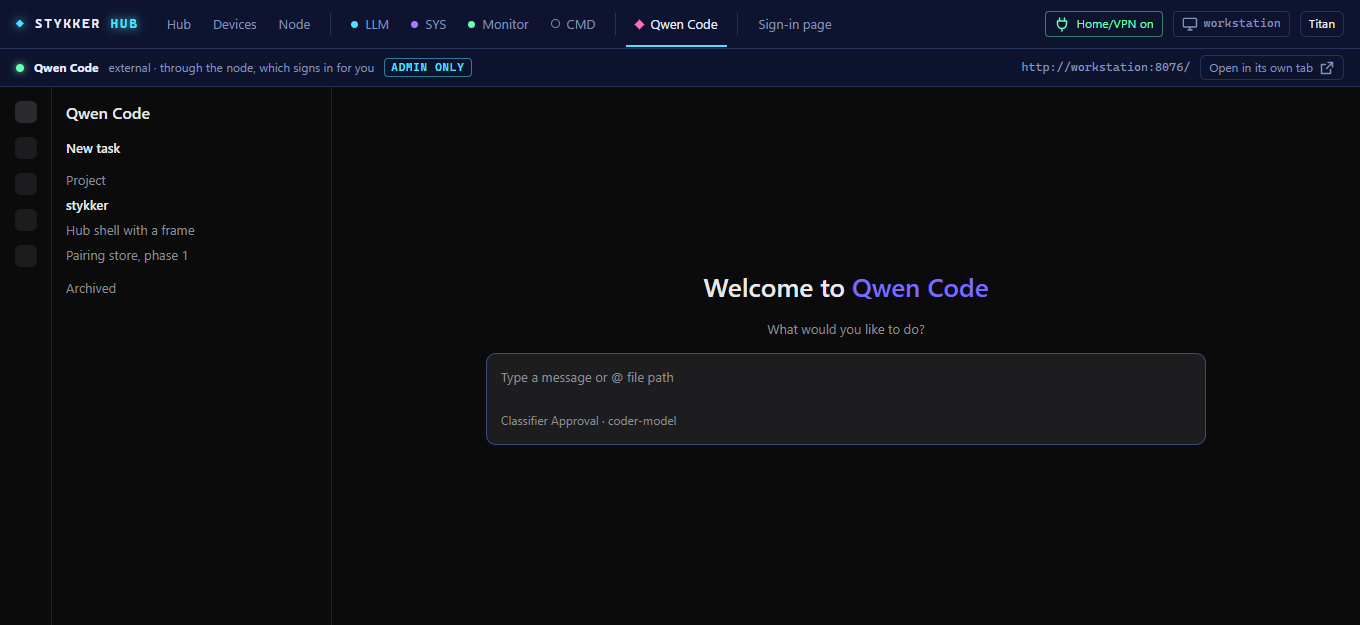
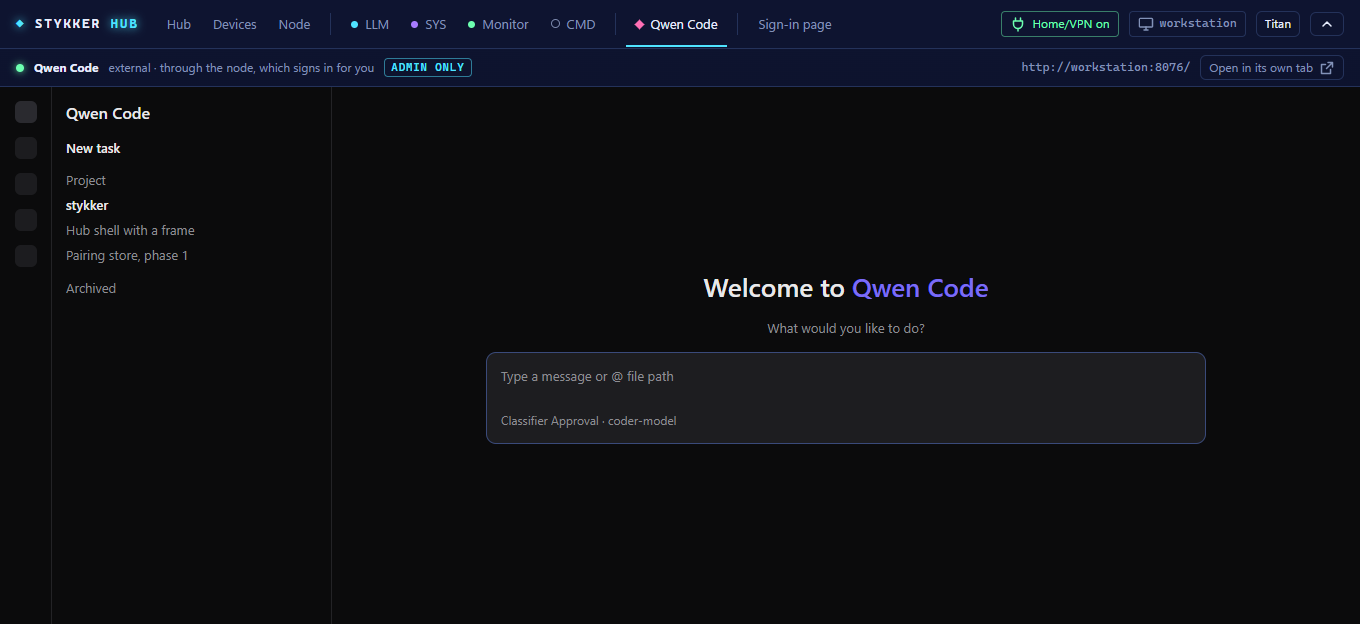
docs: the hub bar folds away; on a phone it opens from one symbol
On a PC the bar is open and can be folded. On a phone and as an
installed app it starts folded, the module gets the whole screen and
the symbol opens the bar as a menu over the page.

diff --git a/docs/design/mockup-zentrale.html b/docs/design/mockup-zentrale.html
@@ -2,7 +2,8 @@
 <html lang="en" data-theme="dark">
 <head>
 <meta charset="utf-8">
-<meta name="viewport" content="width=device-width, initial-scale=1">
+<meta name="viewport" content="width=device-width, initial-scale=1, viewport-fit=cover">
+<meta name="theme-color" content="#0e1430">
 <title>Stykker Hub – mockup</title>
 <!--
   Mockup der Zentrale (docs/plan-stykkernode.md, Phase 5). Statische Seite, keine Daten vom Server:
@@ -157,14 +158,14 @@ nav .mod.ext::before{border-radius:1px;transform:rotate(45deg)}
 main.shell{max-width:none;padding:0}
 .framebar{display:flex;align-items:center;gap:10px;padding:6px 16px;border-bottom:1px solid var(--line);color:var(--muted);font-size:12px;flex-wrap:wrap}
 .framebar .grow{margin-left:auto;display:flex;align-items:center;gap:10px}
-.frame{min-height:calc(100vh - 82px);background:var(--bg)}
+.frame{min-height:calc(100vh - var(--bar-h) - 34px);background:var(--bg)}
 .frame .inner{max-width:1360px;margin:0 auto;padding:14px 16px}
 .modnav{display:flex;align-items:center;gap:4px;margin-bottom:14px;flex-wrap:wrap}
 .modnav span{padding:5px 10px;border:1px solid transparent;border-radius:var(--radius-sm);color:var(--muted)}
 .modnav span.on{color:var(--ink);background:var(--card-2);border-color:var(--line)}
 .modnav .right{margin-left:auto;display:flex;gap:8px}
 /* Qwen bringt seine eigene Gestaltung mit: neutral dunkel, in beiden Themen gleich */
-.foreign{background:#0b0b0c;color:#e9e9ea;display:grid;grid-template-columns:52px 280px 1fr;min-height:calc(100vh - 82px);font-family:"Segoe UI",system-ui,sans-serif}
+.foreign{background:#0b0b0c;color:#e9e9ea;display:grid;grid-template-columns:52px 280px 1fr;min-height:calc(100vh - var(--bar-h) - 34px);font-family:"Segoe UI",system-ui,sans-serif}
 .foreign .rail{border-right:1px solid #232326;display:grid;align-content:start;gap:14px;padding:14px 0;justify-items:center}
 .foreign .rail i{width:22px;height:22px;border-radius:6px;background:#1c1c1f}
 .foreign .rail i.on{background:#2a2a2f}
@@ -178,6 +179,38 @@ main.shell{max-width:none;padding:0}
 .foreign .composer{width:min(720px,70vw);text-align:left;background:#1d1d20;border:1px solid #3a4a7a;border-radius:10px;padding:14px;color:#8d8d93}
 .foreign .composer div{margin-top:26px;font-size:12px}
 @media (max-width:900px){.foreign{grid-template-columns:1fr}.foreign .rail,.foreign .side{display:none}}
+
+/* ── Leiste ein- und ausklappen ──
+   Am PC ist sie offen und lässt sich wegklappen. Am Handy (und als installierte App) ist sie zu: das Modul bekommt
+   den ganzen Bildschirm, und das Symbol öffnet die Leiste als Menü über der Seite. */
+:root{--bar-h:49px}
+html.folded{--bar-h:0px}
+html.folded header{display:none}
+#unfold{display:none;position:fixed;z-index:6;top:8px;right:12px;width:32px;height:32px;padding:0;border-radius:var(--radius-sm);background:var(--bg-top);border:1px solid var(--border);cursor:pointer;font:700 14px var(--font-mono)}
+#unfold b{color:var(--acc);text-shadow:0 0 calc(10px*var(--glow)) var(--acc)}
+html.folded #unfold{display:grid;place-items:center}
+/* Das Symbol sitzt in der Ecke: die Zeile des Moduls rückt dafür ein */
+html.folded .framebar{padding-right:56px}
+@media (max-width:640px),(display-mode:standalone){
+  #unfold{z-index:30;top:auto;bottom:max(16px,env(safe-area-inset-bottom));right:16px;width:48px;height:48px;border-radius:50%;font-size:20px;box-shadow:var(--shadow-menu)}
+  /* Eingeklappt gehört der ganze Bildschirm dem Modul: auch die Zeile mit Name und Adresse weicht */
+  html.folded .framebar{display:none}
+  html.folded{--bar-h:-34px}
+  html:not(.folded) header{position:fixed;inset:0;z-index:20;overflow:auto;border-bottom:0}
+  html:not(.folded) .bar{flex-direction:column;align-items:stretch;gap:0;padding:14px 16px calc(84px + env(safe-area-inset-bottom))}
+  html:not(.folded) .brand{padding:6px 0 14px}
+  html:not(.folded) nav{flex-direction:column;overflow:visible;flex:none}
+  html:not(.folded) nav button{padding:14px 4px;border-bottom:1px solid var(--line);text-align:left;font-size:15px}
+  html:not(.folded) nav button[aria-current="page"]{border-bottom-color:var(--line);color:var(--acc-t)}
+  html:not(.folded) nav .sep{width:auto;height:0;margin:8px 0;background:none}
+  html:not(.folded) .tools{flex-wrap:wrap;padding-top:16px}
+  html:not(.folded) .tools .chip{display:inline-flex}
+  html:not(.folded) #fold{display:none}
+  html:not(.folded) #unfold{display:grid;place-items:center}
+  html:not(.folded) #unfold b{display:none}
+  html:not(.folded) #unfold::after{content:"✕";color:var(--ink);font:400 18px var(--font-sans)}
+  html:not(.folded) body{overflow:hidden}
+}
 
 @media (max-width:1020px){.cols{grid-template-columns:1fr}}
 @media (max-width:640px){
@@ -211,6 +244,7 @@ main.shell{max-width:none;padding:0}
   <symbol id="i-file" viewBox="0 0 16 16"><path d="M4 1.75h5.5L12.5 5v9.25h-8.5z"/><path d="M9.5 1.75V5h3"/><path d="M6.5 8.5h4M6.5 11h3"/></symbol>
   <symbol id="i-layers" viewBox="0 0 16 16"><path d="M8 2 14 5 8 8 2 5z"/><path d="M2 8l6 3 6-3M2 11l6 3 6-3"/></symbol>
   <symbol id="i-timer" viewBox="0 0 16 16"><circle cx="8" cy="9" r="5.25"/><path d="M8 6.5V9l1.75 1.25M6.5 1.75h3"/></symbol>
+  <symbol id="i-up" viewBox="0 0 16 16"><path d="M4 10l4-4 4 4"/></symbol>
   <symbol id="i-x" viewBox="0 0 16 16"><path d="M4 4l8 8M12 4l-8 8"/></symbol>
   <symbol id="r-ok" viewBox="0 0 16 16"><circle cx="8" cy="8" r="6.25"/><path d="M5 8.25 7 10.25 11 6"/></symbol>
   <symbol id="b-llama" viewBox="0 0 16 16"><path d="M8 1.5 13.6 4.75v6.5L8 14.5 2.4 11.25v-6.5z"/><path d="M5.5 6.5h5M5.5 9.5h3"/></symbol>
@@ -238,9 +272,12 @@ main.shell{max-width:none;padding:0}
       <span class="chip on"><svg class="ic"><use href="#i-port"/></svg>Home/VPN on</span>
       <span class="chip"><svg class="ic"><use href="#i-host"/></svg><span class="mono">workstation</span></span>
       <button class="btn sm quiet" id="theme">Titan</button>
+      <button class="btn sm quiet" id="fold" title="Hide the bar" aria-label="Hide the bar"><svg class="ic"><use href="#i-up"/></svg></button>
     </div>
   </div>
 </header>
+<!-- Eingeklappt bleibt nur dieses Symbol: am PC oben rechts, am Handy unten rechts in Daumennähe. -->
+<button id="unfold" title="Show the bar" aria-label="Show the bar" aria-expanded="false"><b>◆</b></button>
 
 <main>
 
@@ -594,6 +631,7 @@ main.shell{max-width:none;padding:0}
   var views = ['hub', 'devices', 'node', 'pair', 'llm', 'qwen'];
   function show() {
     var parts = location.hash.replace('#', '').split(';');
+    if (parts[2]) setFolded(parts[2] !== 'open', false);
     var view = views.indexOf(parts[0]) >= 0 ? parts[0] : 'hub';
     if (parts[1]) document.documentElement.dataset.theme = parts[1] === 'titan' ? 'titan' : 'dark';
     views.forEach(function (id) { document.getElementById(id).classList.toggle('show', id === view); });
@@ -603,9 +641,29 @@ main.shell{max-width:none;padding:0}
     });
     document.getElementById('theme').textContent = document.documentElement.dataset.theme === 'titan' ? 'Dark' : 'Titan';
   }
+  // Handy und installierte App: Leiste zu, bis das Symbol sie öffnet. Am PC offen. Die Wahl bleibt je Gerät gemerkt.
+  var small = window.matchMedia('(max-width:640px),(display-mode:standalone)');
+  function key() { return 'stykker-hub-bar-' + (small.matches ? 'phone' : 'desktop'); }
+  function setFolded(folded, remember) {
+    document.documentElement.classList.toggle('folded', folded);
+    document.getElementById('unfold').setAttribute('aria-expanded', String(!folded));
+    if (remember && !small.matches) { try { localStorage.setItem(key(), folded ? 'folded' : 'open'); } catch (e) { /* ohne Speicher: gilt bis zum Neuladen */ } }
+  }
+  function initialFolded() {
+    if (small.matches) return true;             // am Handy immer zu: das Menü ist eine Aktion, kein Zustand
+    try { return localStorage.getItem(key()) === 'folded'; } catch (e) { return false; }
+  }
+  setFolded(initialFolded(), false);
+  small.addEventListener('change', function () { setFolded(initialFolded(), false); });
+  document.getElementById('fold').addEventListener('click', function () { setFolded(true, true); });
+  document.getElementById('unfold').addEventListener('click', function () {
+    setFolded(!document.documentElement.classList.contains('folded'), true);
+  });
   document.getElementById('nav').addEventListener('click', function (e) {
     var b = e.target.closest('button[data-view]');
-    if (b) location.hash = b.dataset.view;
+    if (!b) return;
+    location.hash = b.dataset.view;
+    if (small.matches) setFolded(true, false);  // gewählt: Menü zu, das Modul hat wieder den ganzen Bildschirm
   });
   document.getElementById('theme').addEventListener('click', function () {
     var root = document.documentElement;
